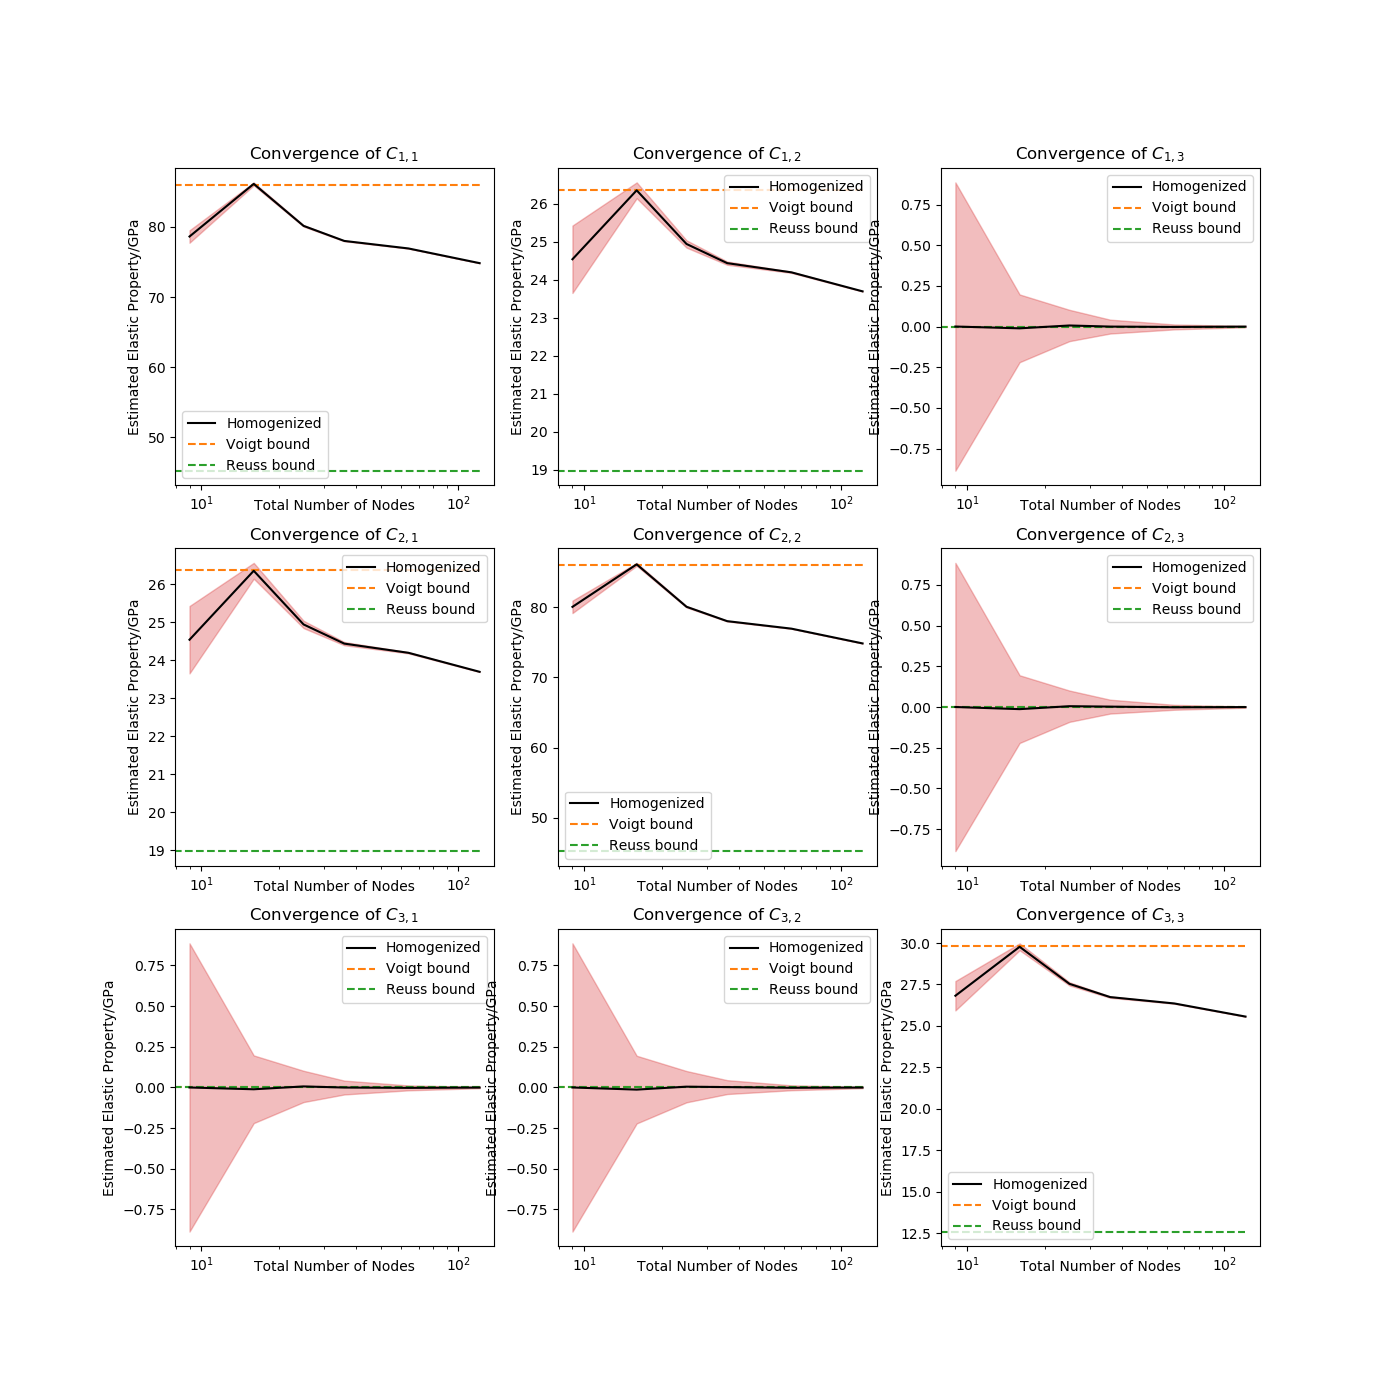
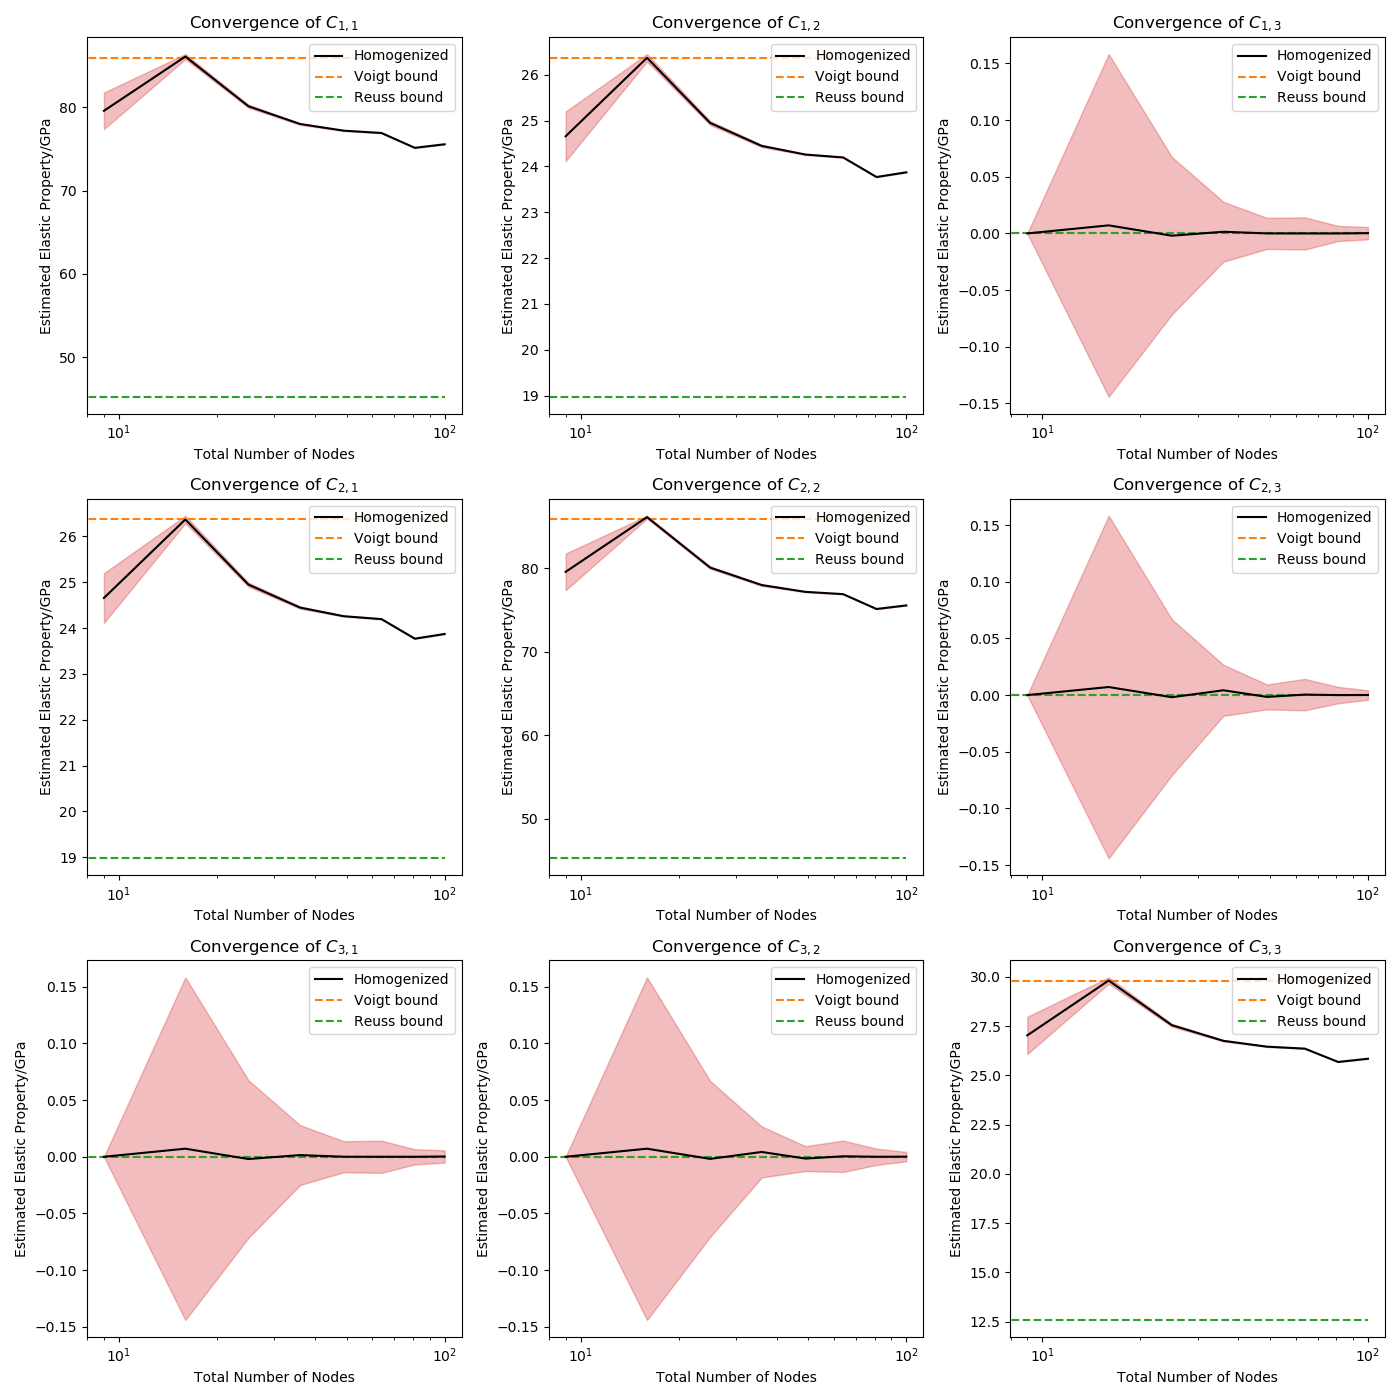
RVE size convergence

diff --git a/PlottingUtils.py b/PlottingUtils.py
@@ -1,14 +1,15 @@
 import numpy as np
 import matplotlib.pyplot as plt
-from MicroMesh import MicroMesh, MicroSolver
+from MicroMesh import MicroMesh, MicroSolver, circles_microstructure
 from tqdm import tqdm
+from scipy.stats import multivariate_normal
 
 
 def int_logscale(max_n):
     init_scale = np.logspace(np.log10(3), np.log10(max_n), num=30)
     return np.unique(init_scale.astype(int))
 
-def Converge(mat_1_params=[10E9, 0.32], mat_2_params=[80E9, 0.22], rel_conc=0.55, nxs=np.arange(3, 8), num_candidates=10):
+def Converge(mat_1_params=[10E9, 0.32], mat_2_params=[80E9, 0.22], rel_conc=0.55, nxs=np.arange(3, 11), num_candidates=15):
     E_1, nu_1 = mat_1_params
     E_2, nu_2 = mat_2_params
 
@@ -34,7 +35,7 @@ def Converge(mat_1_params=[10E9, 0.32], mat_2_params=[80E9, 0.22], rel_conc=0.55
             temp_Cs[j, :, :] = solver.homogenize()
             E_tmp[j], nu_tmp[j] = solver.infer_props()
         Cs[i, :, :] = np.average(temp_Cs, axis=0)
-        C_errs[i, :, :] = np.average((temp_Cs - Cs[i, :, :])**2)
+        C_errs[i, :, :] = np.average((temp_Cs - Cs[i, :, :])**2, axis=0)
 
         Es[i] = np.average(E_tmp)
         E_errs[i] = np.average((E_tmp - Es[i])**2)
@@ -135,7 +136,7 @@ def plot_c_converge(Cs, C_errs, Es, E_errs, nus, nu_errs, real_concs, nnodes, ma
     plt.tight_layout()      
     plt.savefig("E_convergence.png")
 
-def sens_analysis(steps=np.array([10E7, 80E7, 0.0032, 0.0022, 0.006]), x_opt=np.array([10E9, 80E9, 0.32, 0.22, 0.55])):
+def sens_analysis(n=35, steps=np.array([10E7, 80E7, 0.0032, 0.0022, 0.006]), x_opt=np.array([10E9, 80E9, 0.32, 0.22, 0.55])):
     def central_difference(Q_1, Q_2, step):
         return (Q_2 - Q_1)/(2*step)
 
@@ -145,41 +146,104 @@ def sens_analysis(steps=np.array([10E7, 80E7, 0.0032, 0.0022, 0.006]), x_opt=np.
         x = x_opt
         x[i] -= steps[i]
 
-        mesh = mesh(*x)
-        solver = solver(mesh)
+        mesh = MicroMesh(n, n, *x)
+        solver = MicroSolver(mesh)
         Q_1 = solver.homogenize()
 
         x = x_opt
         x[i] += steps[i]
 
-        mesh = mesh(*x)
-        solver = solver(mesh)
+        mesh = MicroMesh(n, n, *x)
+        solver = MicroSolver(mesh)
         Q_2 = solver.homogenize()
 
-        Q_grads[i, :, :] = central_difference(Q_1, Q_2, steps[i]) * x_opt # Scaled Sensitivities
+        Q_grads[i, :, :] = central_difference(Q_1, Q_2, steps[i]) * x_opt[i] # Scaled Sensitivities
     return Q_grads
 
 
 def plot_sens(Q_grads):
-    fig, ax = plt.subplots(3, 3)
+    
+    fig, ax = plt.subplots(3, 3, figsize=(10.0, 10.0))
 
-    labels=[r"E$_1$", r"E$_2$", r"$\nu_1$", r"$\nu_2$", r"Volume Fraction"]
+    Q_grads = np.abs(Q_grads.copy())/1E9
+
+    labels=[r"E$_1$", r"E$_2$", r"$\nu_1$", r"$\nu_2$", r"$\phi_A$"]
 
     for i in range(3):
         for j in range(3):
             ax[i, j].bar(range(Q_grads.shape[0]), Q_grads[:, i, j])
-            ax[i, j].set_xticks(range(Q_grads.shape[0], labels))
+            ax[i, j].set_xticks(range(Q_grads.shape[0]))
+            ax[i, j].set_xticklabels(labels)
             ax[i, j].set_xlabel("Parameter")
-            ax[i, j].set_ylabel("Scaled Sensitivity")
+            ax[i, j].set_ylabel("Scaled Sensitivity/GPa")
             ax[i, j].set_title(f"Sensitivity of $C_{{{i + 1},{j + 1}}}$")
     plt.tight_layout()
 
     plt.savefig("Sensitivities.png")
 
+def RVE_analysis(num_circs=np.arange(1, 5)**2, num_candidates=5, shifts=0.01):
+    mat_1_params=[10E9, 0.32]
+    mat_2_params=[80E9, 0.22]
+    rel_conc=0.55
 
+    E_1, nu_1 = mat_1_params
+    E_2, nu_2 = mat_2_params
+
+    C_tmp = np.zeros((num_candidates, 3, 3))
+    Cs = np.zeros((num_circs.shape[0], 3, 3))
+    C_errs = np.zeros_like(Cs)
+
+    x0 = np.array([E_1/1E9, E_2/1E9, nu_1, nu_2])
+    cov = np.diag(shifts*x0)
+    dist = multivariate_normal(x0, cov)
+
+    for j in tqdm(range(num_circs.shape[0]), desc="Running over RVE size"):
+        for i in tqdm(range(num_candidates), desc="Testing ensemble of Meshes", leave=False):
+            x = dist.rvs()
+            x[0:2] *= 1E9
+            mesh = MicroMesh(35, 35, *x, rel_conc, micro_fun=circles_microstructure, num_circ=int(num_circs[j]))
+            solver = MicroSolver(mesh)
+            C_tmp[i, :, :] = solver.homogenize()
+        Cs[j, :, :] = np.average(C_tmp, axis=0)
+        C_errs[j, :, :] = np.average((C_tmp - Cs[j, :, :])**2, axis=0)
+    
+    voigt_C = solver.Voigt()
+    reuss_C = solver.Reuss()
+    return Cs, C_errs, num_circs, voigt_C, reuss_C
+
+def plot_RVE(Cs, C_errs, num_circs, voigt_C, reuss_C):
+    Cs = Cs.copy()/1E9
+    C_errs = C_errs.copy()/1E9
+    voigt_C = voigt_C.copy()/1E9
+    reuss_C = reuss_C.copy()/1E9
+
+    fig, ax = plt.subplots(3, 3, figsize=(14.0, 14.0))
+    for i in range(3):
+        for j in range(3):
+            ax[i, j].plot(num_circs, Cs[:, i, j], label="Homogenized", color='k')
+            ax[i, j].fill_between(num_circs, Cs[:, i, j] + 2*C_errs[:, i, j], Cs[:, i, j] - 2*C_errs[:, i, j], color='C3', alpha=0.3)
+            ax[i, j].hlines(voigt_C[i, j], 0, np.max(num_circs), label='Voigt bound', color='C1', linestyle='dashed')
+            ax[i, j].hlines(reuss_C[i, j], 0, np.max(num_circs), label='Reuss bound', color='C2', linestyle='dashed')
+            #ax[i, j].hlines(C_1[i, j], 0, np.max(nnodes), label='Material 1', color='C3', linestyle='dashed')
+            #ax[i, j].hlines(C_2[i, j], 0, np.max(nnodes), label='Material 2', color='C4', linestyle='dashed')
+            ax[i, j].set_title(f"Convergence of $C_{{{i + 1},{j + 1}}}$")
+            ax[i, j].set_xlabel("Number of Circular Regions")
+            ax[i, j].set_ylabel("Estimated Elastic Property/GPa")
+            ax[i, j].set_xticks(num_circs)
+            #ax[i, j].set_xscale('log')
+
+            # if (i<2 and j<2) or (i==3 and j==3):
+            #     ax[i, j].set_yscale("log")
+            ax[i, j].legend()
+    plt.tight_layout()      
+    plt.savefig("RVE_converge.png")
 
 
 # props = Converge()
 # plot_c_converge(*props)
 
-    
+# Q_grad = sens_analysis()
+# plot_sens(Q_grad)
+
+props = RVE_analysis()
+plot_RVE(*props)

diff --git a/MicroMesh.py b/MicroMesh.py
@@ -5,15 +5,49 @@ Microscale mesh solving
 '''
 
 
+from ast import Lambda
 from cProfile import label
+from turtle import fillcolor
 from Meshing import Mesh, Element
 from FEMSolver import FEM, gauss_eval_points, gauss_weights, J, Plane_Strain, Plane_Stress
 import numpy as np
 import matplotlib.pyplot as plt
 from tqdm import tqdm
 
+
+def random_microstructure(els, vol_frac, E1, nu1, **kwargs):
+  el_IDs = np.array([i for i in range(els.shape[0])])
+  mat_1_elements = np.random.choice(el_IDs, int(vol_frac * els.shape[0]), replace=False)
+
+  for el in els[mat_1_elements]:
+    el.E = E1
+    el.nu = nu1
+  return els
+
+
+def circles_microstructure(els, vol_frac, E1, nu1, num_circ=1, **kwargs):
+  area_per_circ = vol_frac / num_circ
+  circ_rad = np.sqrt(area_per_circ / np.pi) # Radius of each circle in microstructure
+  circ_per_side = int(np.sqrt(num_circ))
+
+  coords = np.linspace(0, 1, 2*circ_per_side + 1)[1::2]
+  center = np.zeros((2))
+  COMs = np.array([el.COM for el in els])
+  for i in range(circ_per_side):
+    for j in range(circ_per_side):
+      center = np.array([coords[i], coords[j]])
+      mat_1_elements = np.where(np.sum((COMs - center)**2, axis=1) < circ_rad**2)
+      for el in els[mat_1_elements]:
+        el.E = E1
+        el.nu = nu1
+  return els
+
+
+
+
+
 class MicroMesh(Mesh):
-  def __init__(self, nx:int, ny:int, E1:float, E2:float, nu1:float, nu2:float, percent2:float):
+  def __init__(self, nx:int, ny:int, E1:float, E2:float, nu1:float, nu2:float, percent2:float, micro_fun=random_microstructure, **kwargs):
     corners = np.array([[0, 1],
                         [1, 1],
                         [1, 0],
@@ -65,12 +99,38 @@ class MicroMesh(Mesh):
     self.T[self.free_DOFs, :] = np.identity(2*self.num_masters)
     self.T[self.slave_DOFs, :] = -1 * np.linalg.inv(self.Gs) @ self.Gm
 
-    el_IDs = np.array([i for i in range(self.ELS.shape[0])])
-    mat_1_elements = np.random.choice(el_IDs, int(percent2 * self.ELS.shape[0]), replace=False)
+    self.ELS = micro_fun(self.ELS, self.frac2, E1, nu1, **kwargs)
 
-    for el in self.ELS[mat_1_elements]:
-      el.E = E1
-      el.nu = nu1
+  def plot(self):
+    '''
+    Plots the constructed mesh
+    '''
+    title = "Mesh"
+
+    for el in self.ELS:
+      if (el.E == self.E1):
+        color = 'C1'
+      else:
+        color = 'C2'
+      plt.fill(el.XY[:, 0], el.XY[:, 1], edgecolor='k', color=color, alpha=0.3)
+
+
+    # if show_ids:
+    #     for i in range(4):                             #loop over all nodes within an element
+    #         for el in self.ELS:                  #loop over all elements
+    #             sh=0.01
+    #             plt.text(el.XY[i, 0]+sh,el.XY[i, 1]+sh, el.nodes[i])
+
+    # Set chart title.
+    plt.title(title, fontsize=19)
+    # Set x axis label.
+    plt.xlabel("$x_1$", fontsize=10)
+    # Set y axis label.
+    plt.ylabel("$x_2$", fontsize=10)
+
+    #plt.legend()
+
+    plt.show()
 
 
     
@@ -225,38 +285,16 @@ class MicroSolver(FEM):
 
 
 
-# # #mesh = MicroMesh(20, 20, 10E9, 80E9, 0.32, 0.22, 0.55)
+# num_circ = 4
 
-# mesh = MicroMesh(20, 20, 9E9, 63E9, 0.33, 0.23, 0.6)
-# # #mesh.apply_load((0, 2), 'top')
-# # #mesh.apply_load((0.5, 0), 'left')
-# # #mesh.apply_load((-0.2, 0.1), 'right')
+# mat_1_params=[10E9, 0.32]
+# mat_2_params=[80E9, 0.22]
+# rel_conc=0.55
 
-# # #mesh.plot()
-# solver = MicroSolver(mesh)
-
-# c = solver.homogenize(1)
-# # is_pinned = mesh.pins.flatten()
-# # E, nu = solver.infer_props()
-# # print(solver.C)
-# # print(np.format_float_scientific(E))
-# # print(nu)
-# #print(solver.Voigt())
-# C_reuss = solver.Reuss()
-
-# E_reuss, nu_reuss = solver.infer_props(C_reuss)
-
-# print(C_reuss - solver.elasticity(E_reuss, nu_reuss))
-# print(C_reuss)
-
-# C_voigt = solver.Voigt()
-
-# E_voigt, nu_voigt = solver.infer_props(C_voigt)
-
-# print(C_voigt - solver.elasticity(E_voigt, nu_voigt))
-# print(C_voigt)
+# E_1, nu_1 = mat_1_params
+# E_2, nu_2 = mat_2_params
 
 
-# #print(solver.K)
-# #solver.solve()
-#solver.show_deformation(10)
+# mesh = MicroMesh(50, 50, E_1, E_2, nu_1, nu_2, rel_conc, micro_fun=circles_microstructure, num_circ=num_circ)
+# print(np.sum([el.E == mesh.E1 for el in mesh.ELS])/len(mesh.ELS))
+# mesh.plot()

diff --git a/Meshing.py b/Meshing.py
@@ -57,6 +57,13 @@ class Element():
         area = np.abs(np.sum([np.linalg.det(mat[i:i+2, :]) for i in range(4)]) / 2)
         return area
 
+    @property
+    def COM(self):
+        '''
+        Gets center of mass of element
+        '''
+        return np.average(self.XY, axis=0)
+
 
 
 class Mesh():
